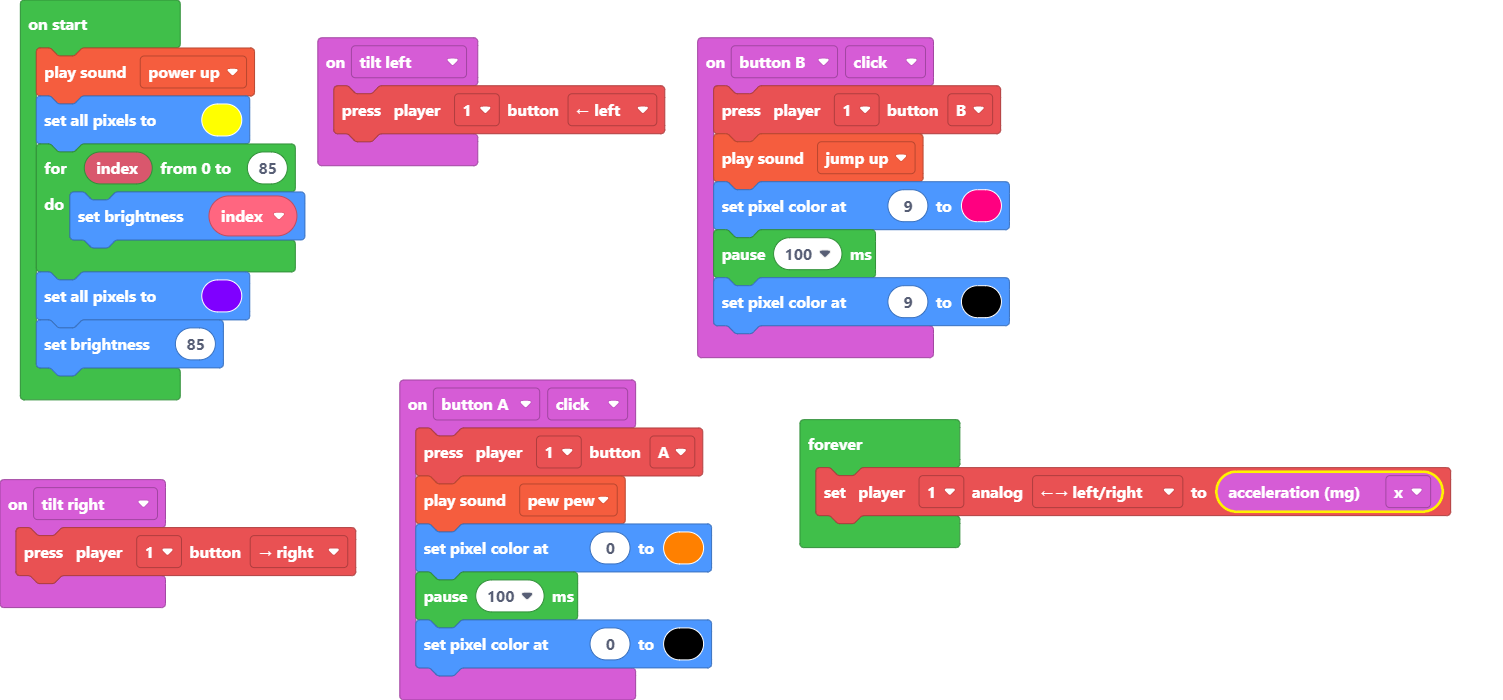
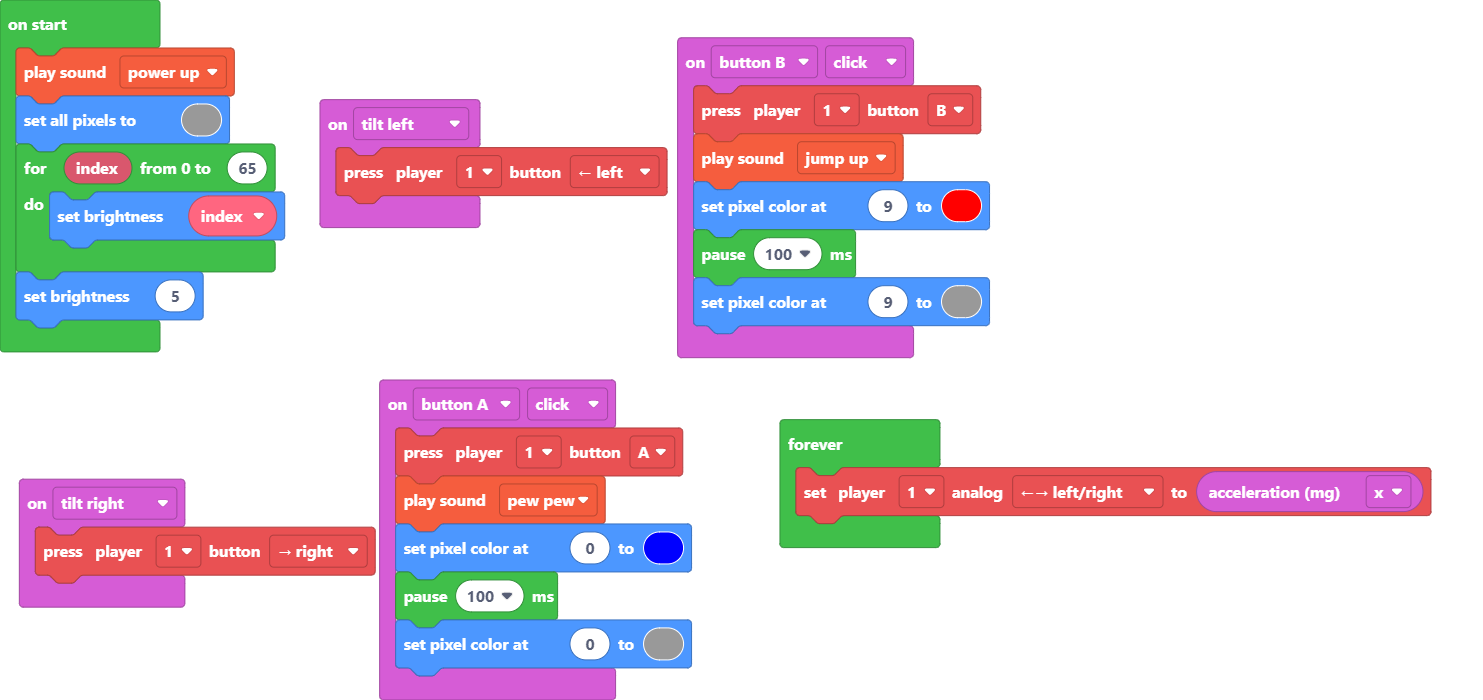
Update main.blocks, main.ts

diff --git a/main.ts b/main.ts
@@ -4,9 +4,9 @@ input.onGesture(Gesture.TiltLeft, function () {
 input.buttonA.onEvent(ButtonEvent.Click, function () {
     makerController.player1.press(ArcadeButton.A)
     music.pewPew.play()
-    light.setPixelColor(0, 0xff8000)
+    light.setPixelColor(0, 0x0000ff)
     pause(100)
-    light.setPixelColor(0, 0x000000)
+    light.setPixelColor(0, 0x999999)
 })
 input.onGesture(Gesture.TiltRight, function () {
     makerController.player1.press(ArcadeButton.Right)
@@ -14,17 +14,16 @@ input.onGesture(Gesture.TiltRight, function () {
 input.buttonB.onEvent(ButtonEvent.Click, function () {
     makerController.player1.press(ArcadeButton.B)
     music.jumpUp.play()
-    light.setPixelColor(9, 0xff0080)
+    light.setPixelColor(9, 0xff0000)
     pause(100)
-    light.setPixelColor(9, 0x000000)
+    light.setPixelColor(9, 0x999999)
 })
 music.powerUp.play()
-light.setAll(0xffff00)
-for (let index = 0; index <= 85; index++) {
+light.setAll(0x999999)
+for (let index = 0; index <= 65; index++) {
     light.setBrightness(index)
 }
-light.setAll(0x7f00ff)
-light.setBrightness(85)
+light.setBrightness(5)
 forever(function () {
     makerController.player1.setAnalog(ArcadeAnalogButton.LeftRight, input.acceleration(Dimension.X))
 })
